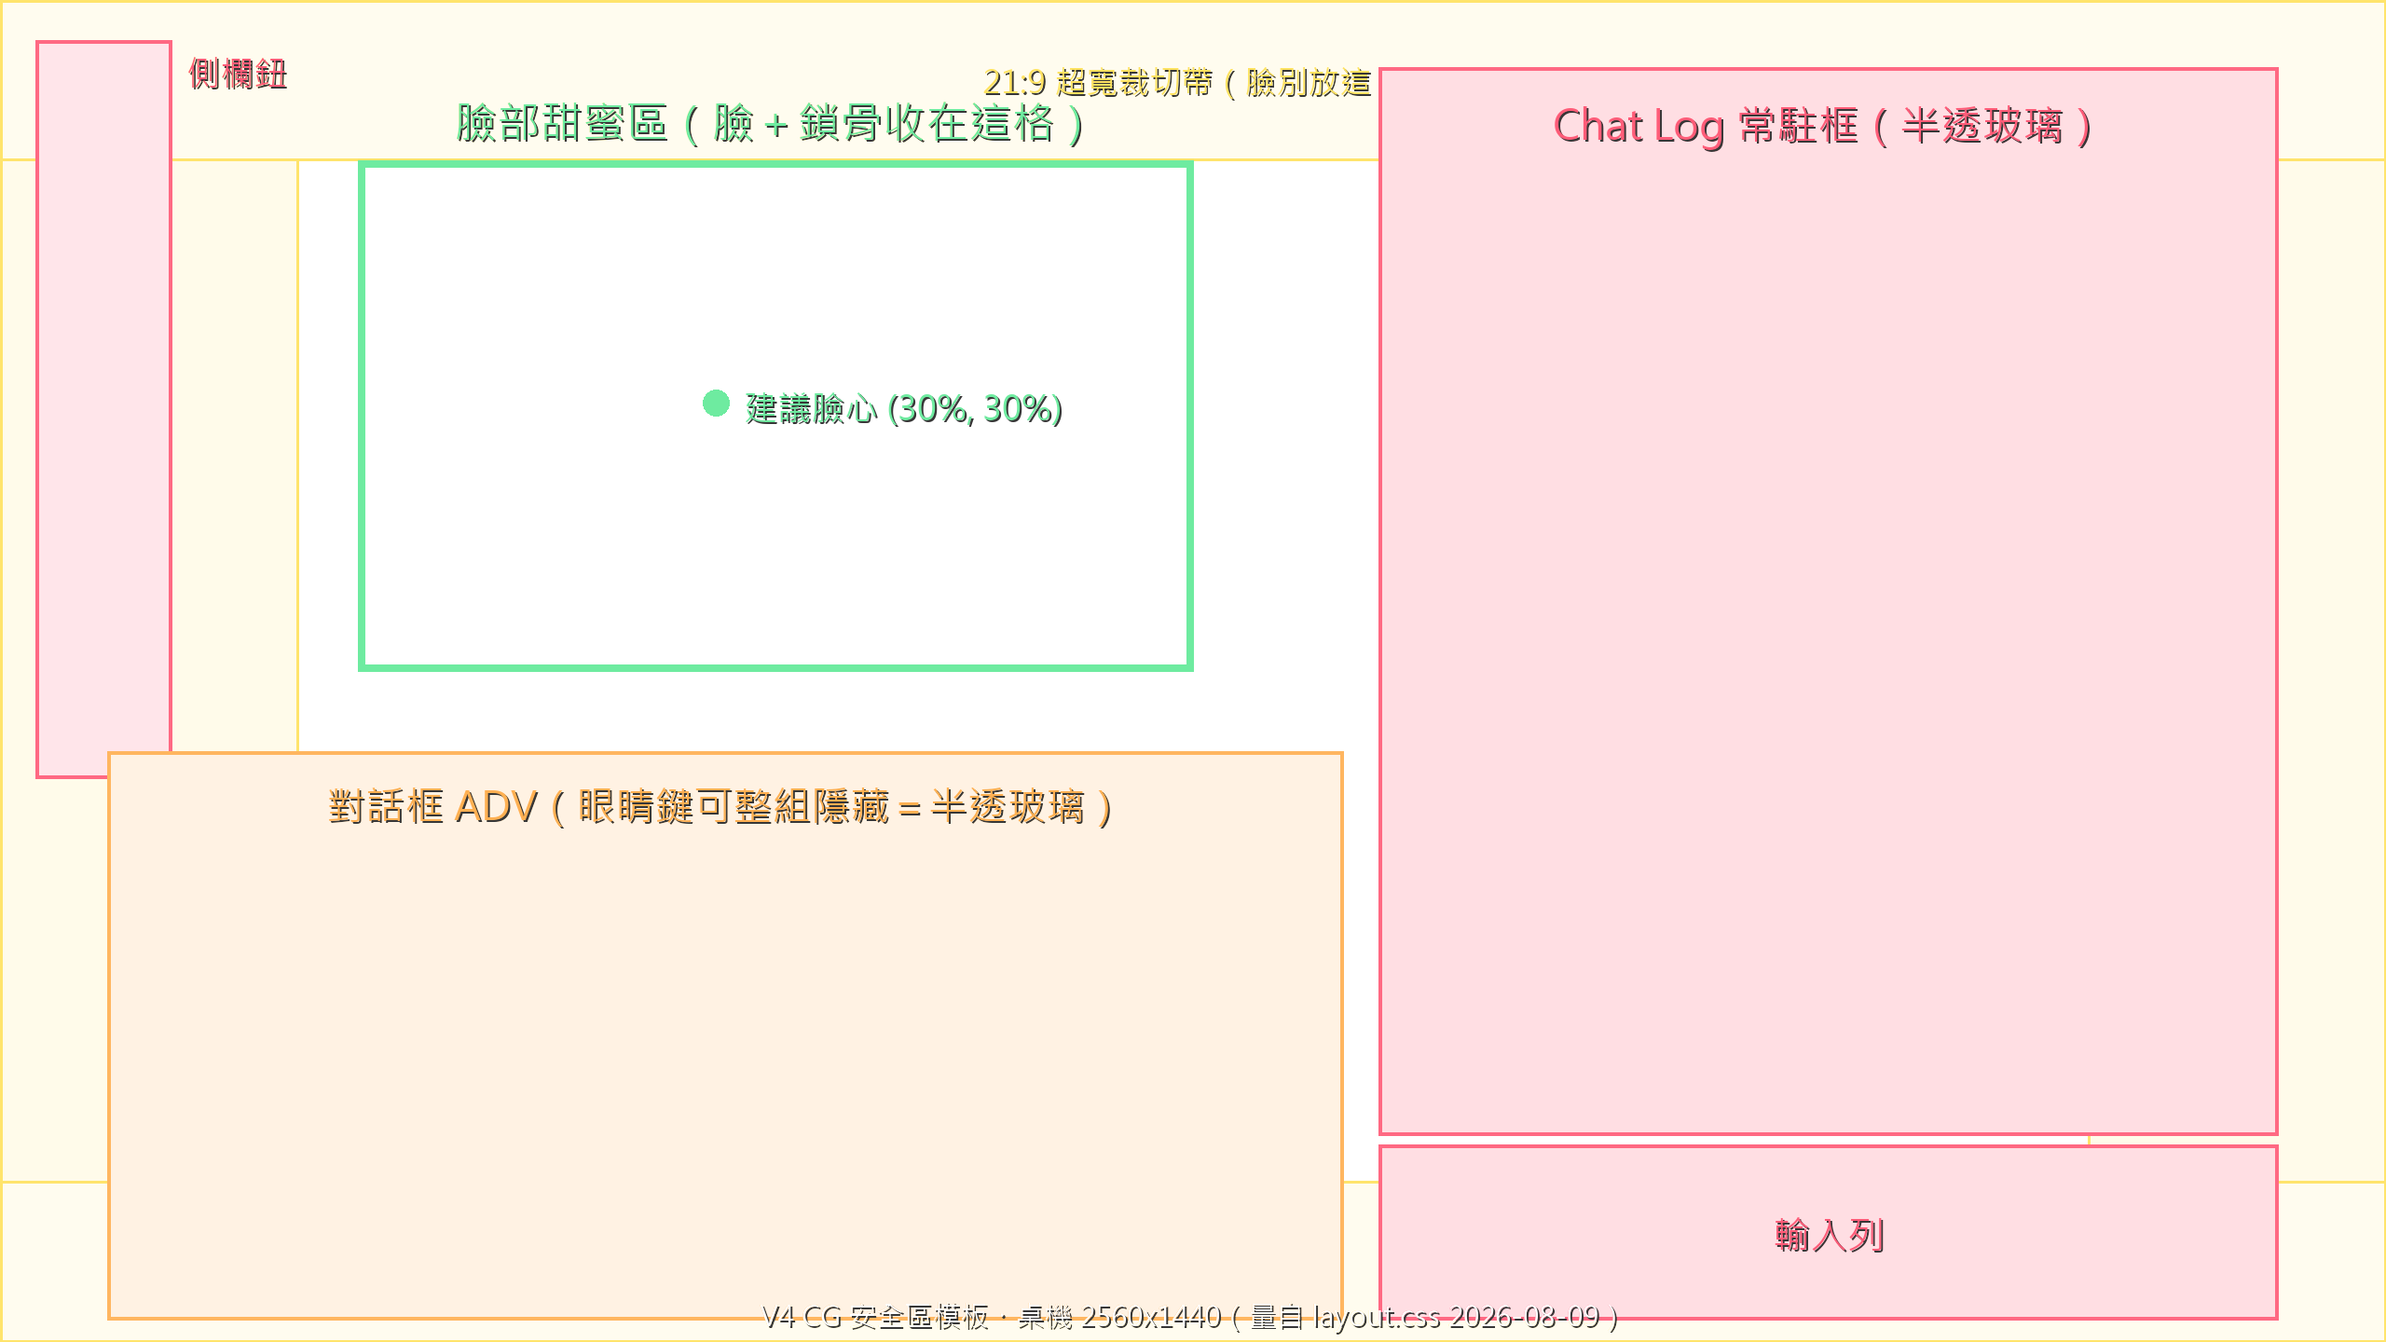
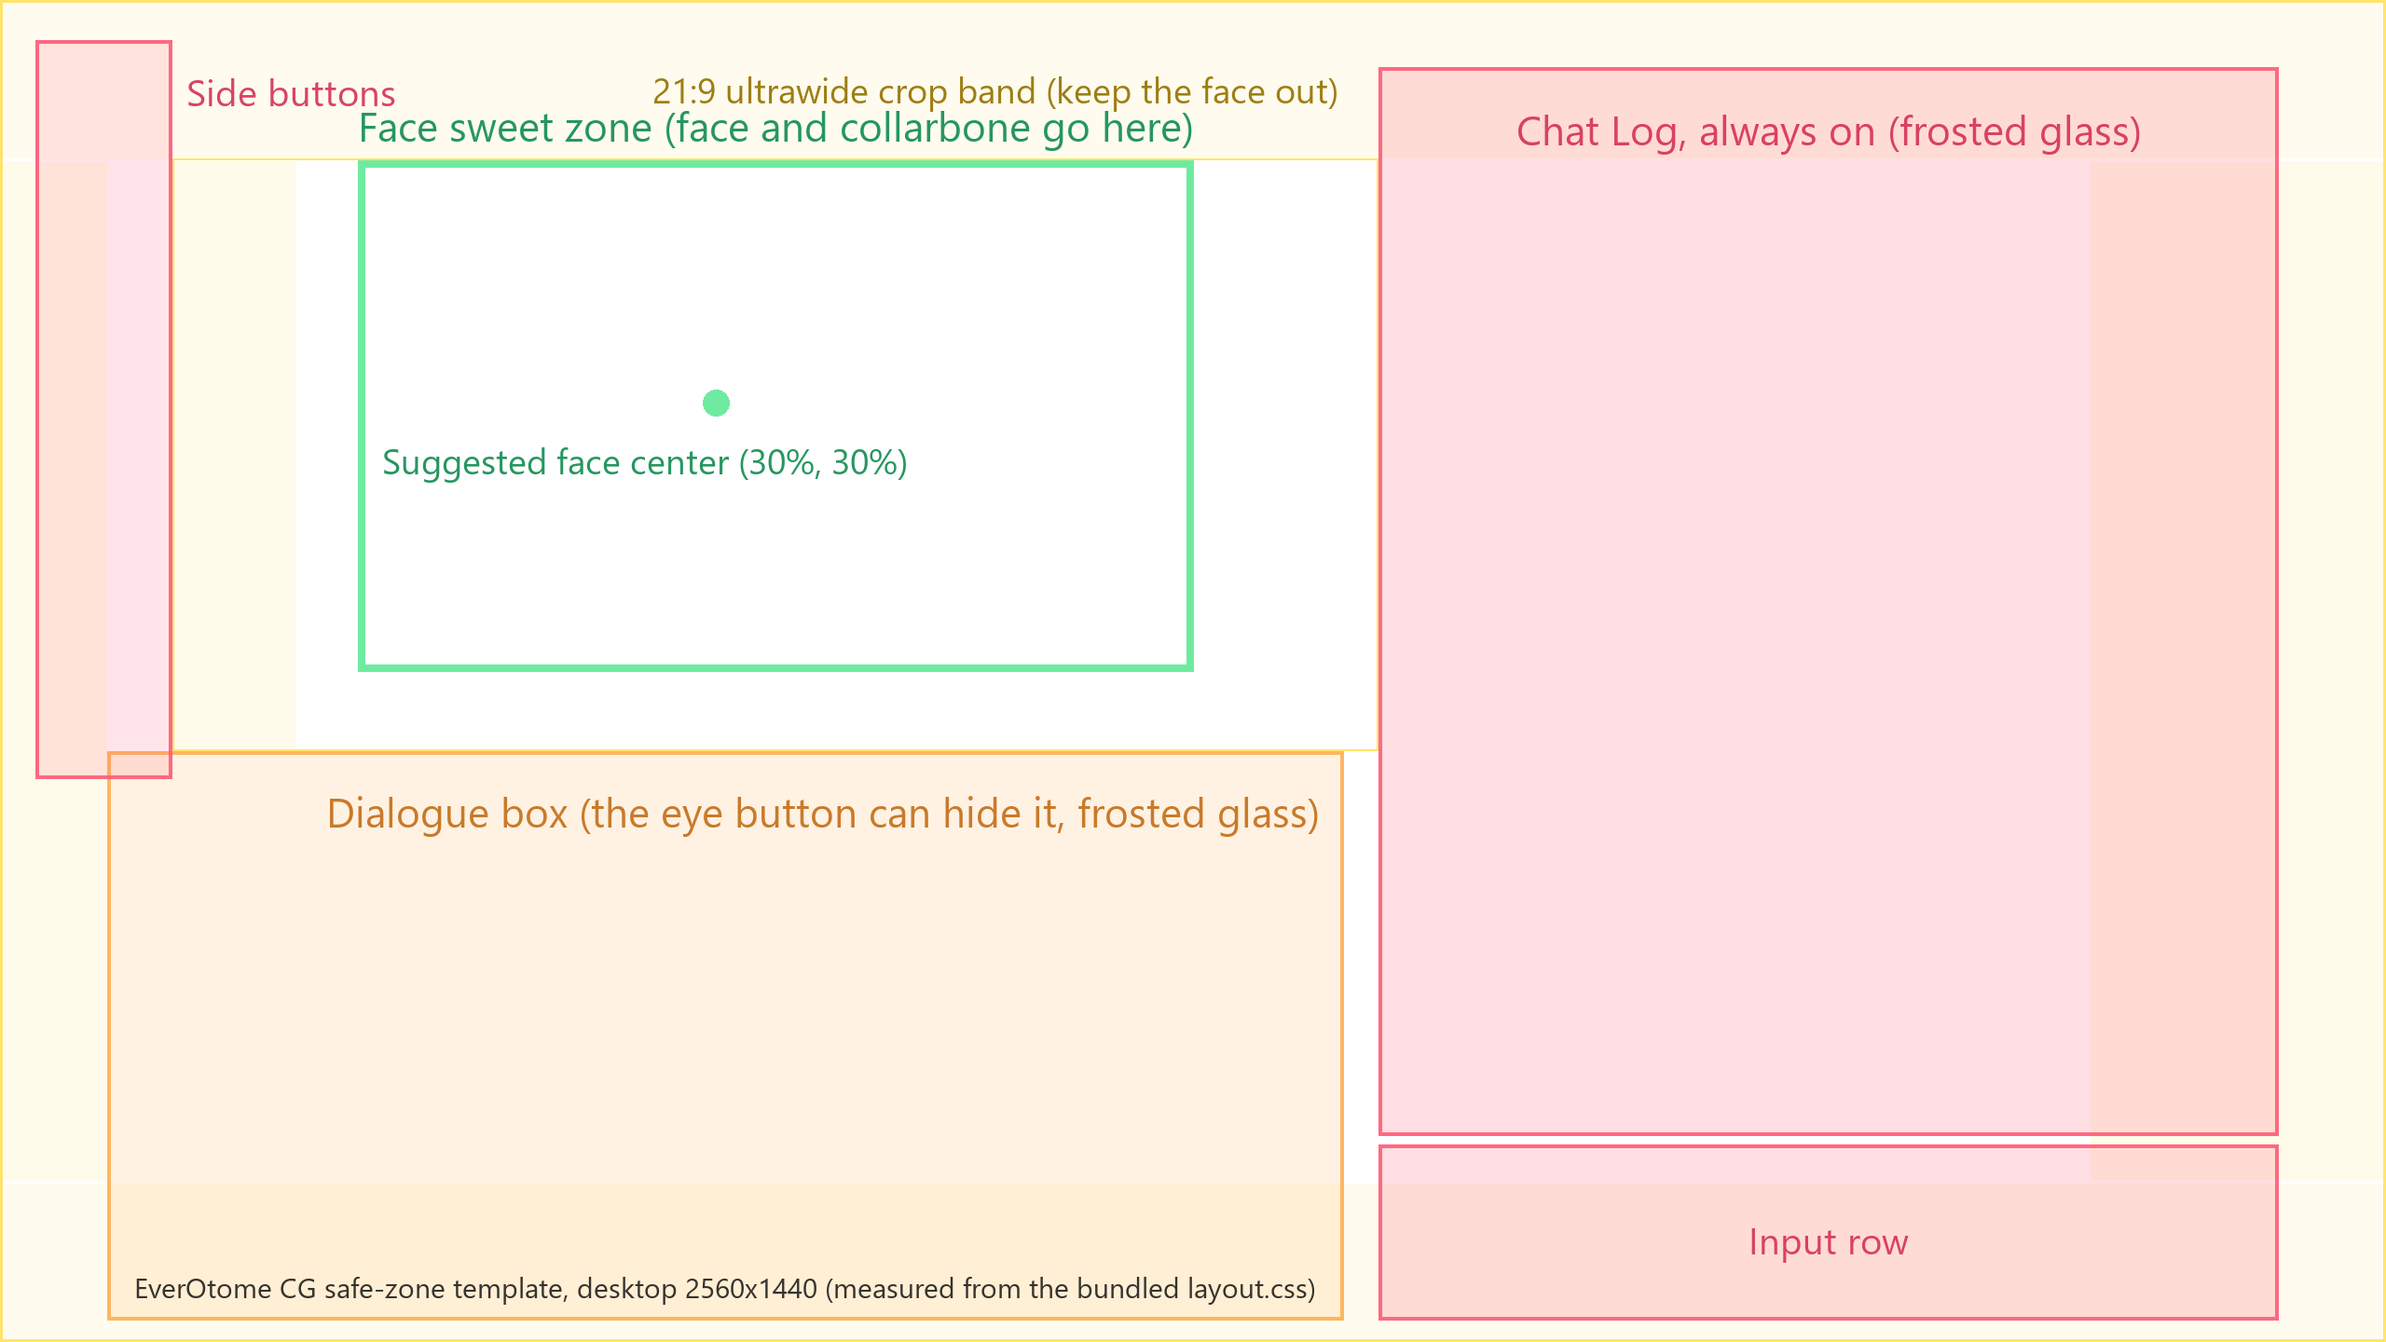
docs(cg-guide): safe-zone templates in English and Traditional Chinese, drawn by tools/make_cg_safe_zone.py

diff --git a/tools/make_cg_safe_zone.py b/tools/make_cg_safe_zone.py
@@ -1,0 +1,244 @@
+# -*- coding: utf-8 -*-
+"""make_cg_safe_zone.py: draw the CG safe-zone templates in docs/ (English and Traditional Chinese).
+
+The templates are transparent RGBA overlays: drop one over your CG in an image editor and keep the
+face inside the green box. The geometry was measured from the bundled layout (engine/css/layout.css).
+If you change the layout, re-measure the boxes in DESKTOP / MOBILE below and re-run this script.
+
+Usage:
+  python tools/make_cg_safe_zone.py                   # all four files into docs/
+  python tools/make_cg_safe_zone.py --out some/dir    # somewhere else
+  python tools/make_cg_safe_zone.py --lang en         # only the English pair ("zh-Hant" for the Chinese pair)
+  python tools/make_cg_safe_zone.py --font-cjk C:/Windows/Fonts/msjh.ttc --font-latin C:/Windows/Fonts/arial.ttf
+
+Output (into --out):
+  cg-safe-zone-desktop.png, cg-safe-zone-mobile.png        English (the files docs/cg-guide.md embeds)
+  cg-safe-zone-desktop-zh.png, cg-safe-zone-mobile-zh.png  Traditional Chinese
+
+Adding a language: add a key to LABELS (same label keys as "en") and to FILE_SUFFIX, then run again.
+"""
+import argparse
+import os
+import sys
+from pathlib import Path
+
+from PIL import Image, ImageDraw, ImageFont
+
+REPO = Path(__file__).resolve().parents[1]
+DOCS = REPO / "docs"
+
+PINK = (255, 92, 120)
+ORANGE = (255, 176, 82)
+YELLOW = (255, 226, 96)
+GREEN = (110, 235, 160)
+
+INK_PINK = (214, 52, 88, 235)
+INK_ORANGE = (196, 112, 26, 235)
+INK_YELLOW = (150, 115, 0, 235)
+INK_GREEN = (38, 150, 96, 255)
+INK_FOOT = (0, 0, 0, 200)
+
+# Shapes: ("fill", box, rgb, alpha) | ("stroke", box, rgb, alpha, width) | ("dot", (cx, cy), rgb, alpha, radius)
+# box = (x0, y0, x1, y1) inclusive pixel coordinates. Drawn in list order (later shapes composite over earlier ones).
+DESKTOP = {
+    "size": (2560, 1440),
+    "shapes": [
+        ("fill", (3, 3, 2557, 169), YELLOW, 26),            # top 21:9 crop band
+        ("fill", (3, 1270, 2557, 1437), YELLOW, 26),        # bottom 21:9 crop band
+        ("fill", (3, 173, 114, 1266), YELLOW, 34),          # left margin
+        ("fill", (2243, 173, 2557, 1266), YELLOW, 34),      # right margin
+        ("fill", (185, 173, 317, 805), YELLOW, 34),         # strip beside the side buttons
+        ("stroke", (0, 0, 2559, 1439), YELLOW, 235, 3),     # canvas border
+        ("stroke", (185, 170, 1478, 805), YELLOW, 235, 2),  # the CG window that stays uncovered
+        ("fill", (119, 810, 1437, 1412), ORANGE, 42),       # dialogue box (ADV)
+        ("stroke", (115, 806, 1441, 1416), ORANGE, 235, 4),
+        ("fill", (1483, 76, 2440, 1214), PINK, 52),         # Chat Log
+        ("stroke", (1479, 72, 2444, 1218), PINK, 235, 4),
+        ("fill", (1483, 1232, 2440, 1412), PINK, 52),       # input row
+        ("stroke", (1479, 1228, 2444, 1416), PINK, 235, 4),
+        ("fill", (42, 47, 180, 831), PINK, 40),             # side buttons column
+        ("stroke", (38, 43, 184, 835), PINK, 235, 4),
+        ("stroke", (384, 172, 1280, 720), GREEN, 255, 8),   # face sweet zone: 15-50% wide, 12-50% high
+        ("dot", (768, 432), GREEN, 255, 14),                # suggested face center (30%, 30%)
+    ],
+    # Labels: (key, anchor, x, y, ink, font size). anchor "la" = left/top, "ma" = centered/top (PIL text anchors).
+    # NOTE on "band"/"dot"/"footer" x/y: nudged from the plan's original values (band x 1050->700,
+    # dot x/y 796/412->410/468, footer x/y 1280/1392->778/1360) after the Step 5 eyeball found the
+    # English text at the original coordinates crossing the green/pink/orange box strokes (visible
+    # strikethrough through the glyphs). Only x/y moved; shapes and label text are untouched.
+    "labels": [
+        ("side", "la", 200, 70, INK_PINK, 40),
+        ("band", "la", 700, 70, INK_YELLOW, 38),
+        ("sweet", "ma", 832, 104, INK_GREEN, 44),
+        ("dot", "la", 410, 468, INK_GREEN, 38),
+        ("chatlog", "ma", 1962, 108, INK_PINK, 44),
+        ("adv", "la", 350, 840, INK_ORANGE, 44),
+        ("input", "ma", 1962, 1302, INK_PINK, 40),
+        ("footer", "ma", 778, 1360, INK_FOOT, 30),
+    ],
+}
+
+MOBILE = {
+    "size": (1440, 3120),
+    "shapes": [
+        ("fill", (3, 250, 285, 2635), YELLOW, 34),          # left margin (outside the centre 60%)
+        ("fill", (1155, 250, 1437, 2635), YELLOW, 34),      # right margin
+        ("fill", (0, 250, 2, 2635), YELLOW, 235),           # outer edge lines
+        ("fill", (1438, 250, 1439, 2635), YELLOW, 235),
+        ("fill", (286, 250, 288, 1309), YELLOW, 235),       # centre-60% guide lines down to the Chat Log
+        ("fill", (1152, 250, 1154, 1309), YELLOW, 235),
+        ("fill", (61, 1314, 1378, 2632), ORANGE, 42),       # Chat Log
+        ("stroke", (57, 1310, 1382, 2635), ORANGE, 235, 4),
+        ("fill", (4, 4, 1436, 245), PINK, 52),              # top badge + status bar
+        ("stroke", (0, 0, 1439, 249), PINK, 235, 4),
+        ("fill", (4, 2640, 1436, 3116), PINK, 52),          # input row + dock
+        ("stroke", (0, 2636, 1439, 3119), PINK, 235, 4),
+        ("stroke", (360, 312, 1080, 1185), GREEN, 255, 8),  # face sweet zone: 25-75% wide, 10-38% high
+        ("dot", (720, 748), GREEN, 255, 16),                # suggested face center (50%, 24%)
+    ],
+    # NOTE on "sweet"/"dot" y/x: nudged from the plan's original values (sweet y 256->248, dot x/y
+    # 746/728->385/790) after the Step 5 eyeball found text crossing the green box's stroke on this
+    # narrower canvas (both languages, mobile is tighter than desktop). Only x/y moved.
+    "labels": [
+        ("top", "ma", 720, 100, INK_PINK, 44),
+        ("sweet", "ma", 720, 248, INK_GREEN, 44),
+        ("dot", "la", 385, 790, INK_GREEN, 40),
+        ("chatlog", "ma", 720, 1350, INK_ORANGE, 44),
+        ("bottom", "ma", 720, 2852, INK_PINK, 44),
+        ("footer", "ma", 720, 3062, INK_FOOT, 30),
+    ],
+}
+
+LABELS = {
+    "en": {
+        "desktop": {
+            "side": "Side buttons",
+            "band": "21:9 ultrawide crop band (keep the face out)",
+            "sweet": "Face sweet zone (face and collarbone go here)",
+            "dot": "Suggested face center (30%, 30%)",
+            "chatlog": "Chat Log, always on (frosted glass)",
+            "adv": "Dialogue box (the eye button can hide it, frosted glass)",
+            "input": "Input row",
+            "footer": "EverOtome CG safe-zone template, desktop 2560x1440 (measured from the bundled layout.css)",
+        },
+        "mobile": {
+            "top": "Top badge and status bar",
+            "sweet": "Face sweet zone",
+            "dot": "Suggested face center (50%, 24%)",
+            "chatlog": "Chat Log (the eye button can hide it, dark translucent)",
+            "bottom": "Input row and dock (always on)",
+            "footer": "EverOtome CG safe-zone template, mobile 1440x3120 (9:19.5)",
+        },
+    },
+    "zh-Hant": {
+        "desktop": {
+            "side": "側欄鈕",
+            "band": "21:9 超寬裁切帶（臉別放這）",
+            "sweet": "臉部甜蜜區（臉＋鎖骨收在這格）",
+            "dot": "建議臉心 (30%, 30%)",
+            "chatlog": "Chat Log 常駐框（半透玻璃）",
+            "adv": "對話框 ADV（眼睛鍵可整組隱藏＝半透玻璃）",
+            "input": "輸入列",
+            "footer": "EverOtome CG 安全區模板・桌機 2560x1440（量自 layout.css）",
+        },
+        "mobile": {
+            "top": "頂部徽章＋狀態列",
+            "sweet": "臉部甜蜜區",
+            "dot": "建議臉心 (50%, 24%)",
+            "chatlog": "Chat Log（眼睛鍵可隱藏＝黑半透）",
+            "bottom": "輸入列＋dock（常駐）",
+            "footer": "EverOtome CG 安全區模板・手機 1440x3120（9:19.5）",
+        },
+    },
+}
+FILE_SUFFIX = {"en": "", "zh-Hant": "-zh"}
+
+CJK_FONTS = [
+    "C:/Windows/Fonts/msjh.ttc",
+    "C:/Windows/Fonts/NotoSansTC-VF.ttf",
+    "/System/Library/Fonts/PingFang.ttc",
+    "/usr/share/fonts/opentype/noto/NotoSansCJK-TC-Regular.otf",
+    "/usr/share/fonts/opentype/noto/NotoSansCJK-Regular.ttc",
+    "/usr/share/fonts/truetype/noto/NotoSansCJK-Regular.ttc",
+]
+LATIN_FONTS = [
+    "C:/Windows/Fonts/segoeui.ttf",
+    "C:/Windows/Fonts/arial.ttf",
+    "/System/Library/Fonts/Helvetica.ttc",
+    "/usr/share/fonts/truetype/dejavu/DejaVuSans.ttf",
+    "/usr/share/fonts/truetype/liberation/LiberationSans-Regular.ttf",
+]
+
+
+def find_font(explicit, candidates):
+    for p in ([explicit] if explicit else []) + candidates:
+        if p and os.path.exists(p):
+            return p
+    return None
+
+
+def load_font(path, size):
+    if path:
+        return ImageFont.truetype(path, size)
+    try:
+        return ImageFont.load_default(size)      # Pillow 10.1+
+    except TypeError:
+        return ImageFont.load_default()
+
+
+def draw_template(spec, labels, font_path):
+    size = spec["size"]
+    canvas = Image.new("RGBA", size, (0, 0, 0, 0))
+    for shape in spec["shapes"]:
+        layer = Image.new("RGBA", size, (0, 0, 0, 0))
+        d = ImageDraw.Draw(layer)
+        kind, geo, rgb, alpha = shape[0], shape[1], shape[2], shape[3]
+        color = rgb + (alpha,)
+        if kind == "fill":
+            d.rectangle(geo, fill=color)
+        elif kind == "stroke":
+            d.rectangle(geo, outline=color, width=shape[4])
+        elif kind == "dot":
+            cx, cy = geo
+            r = shape[4]
+            d.ellipse((cx - r, cy - r, cx + r, cy + r), fill=color)
+        canvas.alpha_composite(layer)
+    text_layer = Image.new("RGBA", size, (0, 0, 0, 0))
+    d = ImageDraw.Draw(text_layer)
+    for key, anchor, x, y, ink, fsize in spec["labels"]:
+        d.text((x, y), labels[key], font=load_font(font_path, fsize), fill=ink, anchor=anchor)
+    canvas.alpha_composite(text_layer)
+    return canvas
+
+
+def main(argv=None):
+    ap = argparse.ArgumentParser(description="Draw the CG safe-zone templates (transparent PNG overlays) for docs/.")
+    ap.add_argument("--out", default=str(DOCS), help="output folder (default: the repo's docs/)")
+    ap.add_argument("--lang", choices=("all", "en", "zh-Hant"), default="all",
+                    help="which language pair to write (default: all)")
+    ap.add_argument("--font-cjk", default=None, help="TTF/TTC with Chinese glyphs for the zh-Hant pair (auto-detected if omitted)")
+    ap.add_argument("--font-latin", default=None, help="TTF for the English pair (auto-detected; falls back to the CJK font)")
+    args = ap.parse_args(argv)
+
+    out = Path(args.out)
+    out.mkdir(parents=True, exist_ok=True)
+    cjk = find_font(args.font_cjk, CJK_FONTS)
+    latin = find_font(args.font_latin, LATIN_FONTS) or cjk
+    if cjk is None:
+        print("warning: no CJK font found; Chinese labels will use Pillow's default font (pass --font-cjk)", file=sys.stderr)
+    if latin is None:
+        print("warning: no font found; labels will use Pillow's default font (pass --font-latin)", file=sys.stderr)
+
+    langs = ["en", "zh-Hant"] if args.lang == "all" else [args.lang]
+    for lang in langs:
+        font = cjk if lang == "zh-Hant" else latin
+        for device, spec in (("desktop", DESKTOP), ("mobile", MOBILE)):
+            img = draw_template(spec, LABELS[lang][device], font)
+            path = out / f"cg-safe-zone-{device}{FILE_SUFFIX[lang]}.png"
+            img.save(path, optimize=True)
+            print(f"wrote {path} ({img.size[0]}x{img.size[1]}, {lang})")
+    return 0
+
+
+if __name__ == "__main__":
+    sys.exit(main())

diff --git a/tools/tests/test_make_cg_safe_zone.py b/tools/tests/test_make_cg_safe_zone.py
@@ -1,0 +1,43 @@
+import subprocess, sys
+from pathlib import Path
+from PIL import Image
+
+TOOL = Path(__file__).resolve().parents[1] / "make_cg_safe_zone.py"
+GREEN = (110, 235, 160)
+
+EXPECTED = {
+    "cg-safe-zone-desktop.png": (2560, 1440),
+    "cg-safe-zone-mobile.png": (1440, 3120),
+    "cg-safe-zone-desktop-zh.png": (2560, 1440),
+    "cg-safe-zone-mobile-zh.png": (1440, 3120),
+}
+
+def _run(*args):
+    return subprocess.run([sys.executable, str(TOOL), *args], capture_output=True, text=True)
+
+def test_writes_four_transparent_templates(tmp_path):
+    r = _run("--out", str(tmp_path))
+    assert r.returncode == 0, r.stdout + r.stderr
+    for name, size in EXPECTED.items():
+        im = Image.open(tmp_path / name)
+        assert im.size == size, name
+        assert im.mode == "RGBA", name
+        assert im.getchannel("A").getextrema()[0] == 0, f"{name}: background must stay transparent"
+    en = Image.open(tmp_path / "cg-safe-zone-desktop.png").tobytes()
+    zh = Image.open(tmp_path / "cg-safe-zone-desktop-zh.png").tobytes()
+    assert en != zh, "the two languages must render different labels"
+
+def test_sweet_zone_and_face_center_sit_at_the_measured_place(tmp_path):
+    assert _run("--out", str(tmp_path)).returncode == 0
+    desk = Image.open(tmp_path / "cg-safe-zone-desktop.png").convert("RGBA")
+    assert desk.getpixel((800, 175))[:3] == GREEN   # top edge of the sweet zone (y 172-179)
+    assert desk.getpixel((387, 400))[:3] == GREEN   # left edge (x 384-391)
+    assert desk.getpixel((768, 432))[:3] == GREEN   # face-center dot at (30%, 30%)
+    mob = Image.open(tmp_path / "cg-safe-zone-mobile.png").convert("RGBA")
+    assert mob.getpixel((720, 315))[:3] == GREEN    # top edge (y 312-319)
+    assert mob.getpixel((720, 748))[:3] == GREEN    # face-center dot at (50%, 24%)
+
+def test_lang_filter_writes_only_that_pair(tmp_path):
+    assert _run("--out", str(tmp_path), "--lang", "en").returncode == 0
+    names = sorted(p.name for p in tmp_path.iterdir())
+    assert names == ["cg-safe-zone-desktop.png", "cg-safe-zone-mobile.png"]

diff --git a/docs/cg-guide.md b/docs/cg-guide.md
@@ -31,7 +31,7 @@ Part of your CG will sit under the UI. Compose with the face in the safe area:
 - **Desktop** (2:1 or 16:9 canvas): the Chat Log begins at roughly the **58%** mark of the width and covers everything to its right. Keep the face in the left half; a good face center is around **(30%, 30%)**.
 - **Mobile** (canvas ≈9:19.5, e.g. 852×1846): the Chat Log begins about **42%** of the way down and covers the area below it. A good face center is around **(50%, 24%)**.
 
-These percentages are suggestions measured from the bundled layout. If you customize the CSS layout, remeasure before producing art in bulk.
+These percentages are suggestions measured from the bundled layout. If you customize the CSS layout, remeasure before producing art in bulk. Both templates are transparent PNG overlays: drop one over your canvas in an image editor and keep the face inside the green box. The same templates with Chinese labels: [desktop](cg-safe-zone-desktop-zh.png), [mobile](cg-safe-zone-mobile-zh.png). All four are drawn by `tools/make_cg_safe_zone.py`; after a layout change, update the boxes in that script and run it again (`python tools/make_cg_safe_zone.py --help`).
 
 ## Rescue trick for existing art
 
